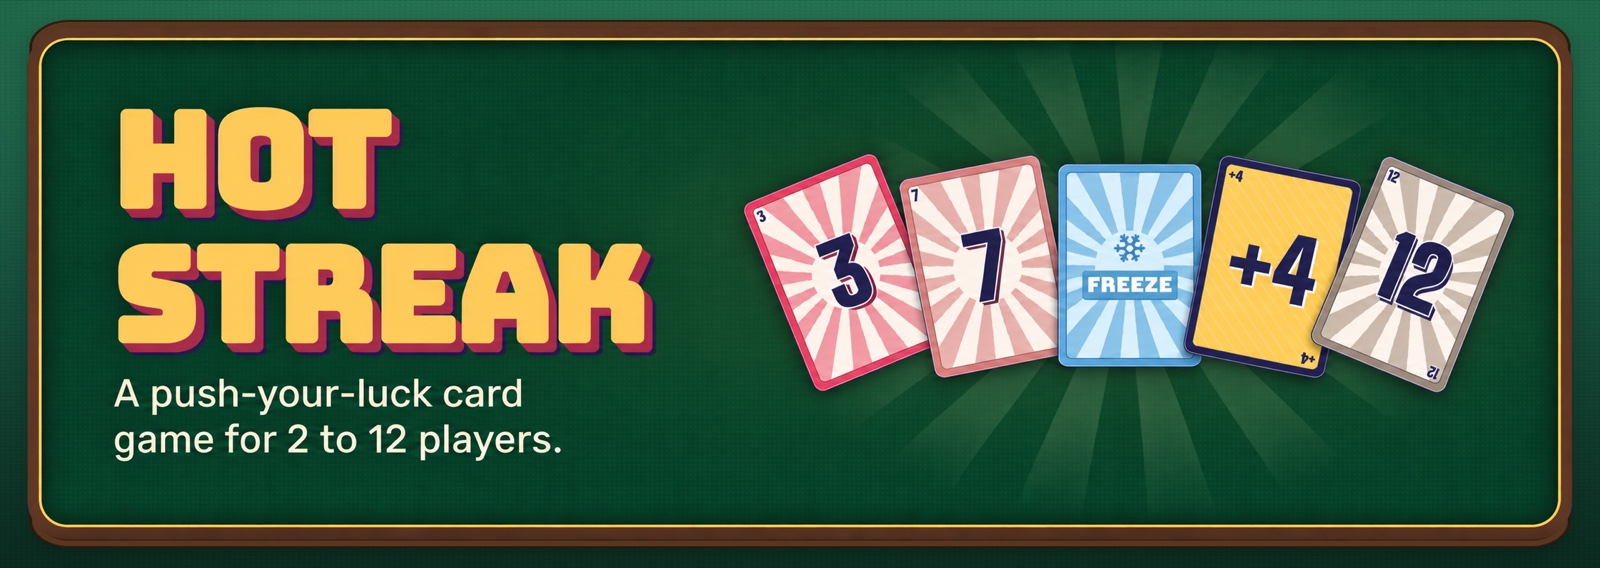
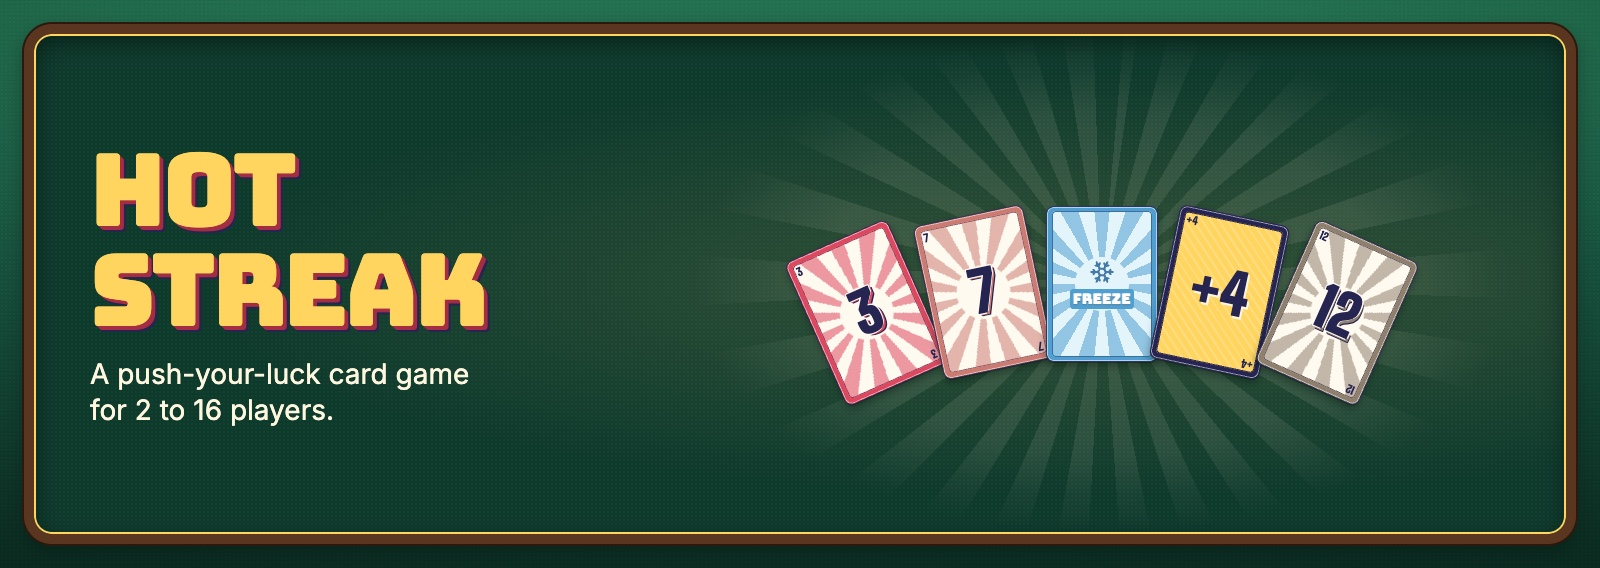
Allow rooms to host up to 16 players
- Update player-count descriptions and social images
- Show deals of up to 20 cards

diff --git a/src/routes/index.tsx b/src/routes/index.tsx
@@ -34,7 +34,7 @@ const HERO_CARDS: Card[] = [
   { id: 5, kind: "number", value: 12 },
 ];
 
-const HERO_FACTS = ["2–12 players", "No accounts", "Free to play"];
+const HERO_FACTS = ["2–16 players", "No accounts", "Free to play"];
 
 const HOME_TITLE = `${SITE_NAME} · A push-your-luck card game`;
 
@@ -46,7 +46,7 @@ const GAME_STRUCTURED_DATA = JSON.stringify({
   gamePlatform: "Web browser",
   genre: ["Card game", "Party game"],
   name: SITE_NAME,
-  numberOfPlayers: { "@type": "QuantitativeValue", maxValue: 12, minValue: 2 },
+  numberOfPlayers: { "@type": "QuantitativeValue", maxValue: 16, minValue: 2 },
   offers: { "@type": "Offer", price: "0", priceCurrency: "USD" },
   operatingSystem: "Any",
   playMode: "MultiPlayer",

diff --git a/src/components/page-meta.tsx b/src/components/page-meta.tsx
@@ -6,7 +6,7 @@ export const SITE_NAME = "Hot Streak";
 export const SITE_ORIGIN = "https://hotstreak.owenvey.com";
 
 export const SITE_DESCRIPTION =
-  "A multiplayer push-your-luck card game for 2 to 12 players. Hit or Stay, dodge duplicates, and flip 7 for a bonus. Share a room code and play in your browser, no accounts.";
+  "A multiplayer push-your-luck card game for 2 to 16 players. Hit or Stay, dodge duplicates, and flip 7 for a bonus. Share a room code and play in your browser, no accounts.";
 
 const OG_IMAGE = {
   alt: "Hot Streak wordmark beside a fan of playing cards on green felt",

diff --git a/src/lib/deal-plan.ts b/src/lib/deal-plan.ts
@@ -5,7 +5,7 @@ import { roundStarted } from "../game/protocol";
 import type { PlayerView, RoomView } from "../game/protocol";
 
 /** Beyond this many cards in one update, show the result without dealing it out. */
-export const MAX_DEALT_CARDS = 16;
+export const MAX_DEALT_CARDS = 20;
 
 export type DealSpot =
   | { kind: "hand"; playerId: string }

diff --git a/src/game/engine.ts b/src/game/engine.ts
@@ -22,7 +22,7 @@ import { MIN_PLAYERS, rejectMove, waitingOn } from "./moves";
 import type { Move } from "./moves";
 
 export const TARGET_SCORE = 200;
-export const MAX_PLAYERS = 12;
+export const MAX_PLAYERS = 16;
 
 export { FLIP_THREE_COUNT } from "./action-card-resolution";
 

diff --git a/README.md b/README.md
@@ -2,7 +2,7 @@
 
 ![Hot Streak banner showing a fan of Number, Freeze, and Score Modifier cards on green felt](docs/readme-banner.jpg)
 
-A multiplayer push-your-luck card game for **2–12 players**. Share a room link or code and join with a display name. No account is required.
+A multiplayer push-your-luck card game for **2–16 players**. Share a room link or code and join with a display name. No account is required.
 
 **[Play Hot Streak](https://hotstreak.owenvey.com/)** · [How to play](#how-to-play) · [Local development](#local-development) · [Deploy](#deploy-to-cloudflare)
 
